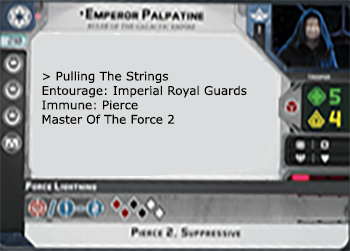
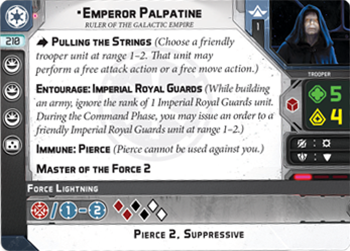
Updating Palpatine

diff --git a/src/app/units/units.component.ts b/src/app/units/units.component.ts
@@ -24,7 +24,7 @@ export class UnitsComponent implements OnInit {
       ['Force', 'Force', 'Force', 'Command'],
       ['', '', '', ''],
       'assets\\images\\Cards\\Emperor Palpatine.png',
-      false
+      true
     ),
     new Unit(
       'Boba Fett',
@@ -183,24 +183,29 @@ export class UnitsComponent implements OnInit {
   commandCards = [
     new CommandCard('Ambush', 1, '', 'assets\\images\\Cards\\Command Cards\\Ambush.png', true),
     new CommandCard('Son of Skywalker', 1, 'Luke Skywalker', 'assets\\images\\Cards\\Command Cards\\Son of Skywalker.png', false),
-    // tslint:disable-next-line:max-line-length
-    new CommandCard('Coordinated Bombardment', 1, 'Leia Organa', 'assets\\images\\Cards\\Command Cards\\Coordinated Bombardment.png', false),
+    new CommandCard('Coordinated Bombardment', 1, 'Leia Organa',
+      'assets\\images\\Cards\\Command Cards\\Coordinated Bombardment.png', false),
     new CommandCard('Implacable', 1, 'Darth Vader', 'assets\\images\\Cards\\Command Cards\\Implacable.png', false),
     new CommandCard('Maximum Firepower', 1, 'General Veers', 'assets\\images\\Cards\\Command Cards\\Maximum Firepower.png', false),
     new CommandCard('Sorry About the Mess', 1, 'Han Solo', 'assets\\images\\Cards\\Command Cards\\Sorry About the Mess.png', false),
     new CommandCard('Whipcord Launcher', 1, 'Boba Fett', 'assets\\images\\Cards\\Command Cards\\Whipcord Launcher.png', false),
+    new CommandCard('And Now...You Will Die', 1, 'Emperor Palpatine',
+      'assets\\images\\Cards\\Command Cards\\And Now You Will Die.png', false),
     new CommandCard('Push', 2, '', 'assets\\images\\Cards\\Command Cards\\Push.png', true),
     new CommandCard('My Ally Is the Force', 2, 'Luke Skywalker', 'assets\\images\\Cards\\Command Cards\\My Ally Is the Force.png', false),
     new CommandCard('No Time for Sorrows', 2, 'Leia Organa', 'assets\\images\\Cards\\Command Cards\\No Time for Sorrows.png', false),
-    // tslint:disable-next-line:max-line-length
-    new CommandCard('New Ways to Motivate Them', 2, 'Darth Vader', 'assets\\images\\Cards\\Command Cards\\New Ways to Motivate Them.png', false),
-    new CommandCard('Evasive Maneuvers', 2, 'General Veers', 'assets\\images\\Cards\\Command Cards\\Evasive Maneuvers.png', false),
+    new CommandCard('New Ways to Motivate Them', 2, 'Darth Vader',
+      'assets\\images\\Cards\\Command Cards\\New Ways to Motivate Them.png', false),
+    new CommandCard('Evasive Maneuvers', 2, 'General Veers',
+      'assets\\images\\Cards\\Command Cards\\Evasive Maneuvers.png', false),
     new CommandCard('Reckless Diversion', 2, 'Han Solo', 'assets\\images\\Cards\\Command Cards\\Reckless Diversion.png', false),
     new CommandCard('ZX Flame Projector', 2, 'Boba Fett', 'assets\\images\\Cards\\Command Cards\\ZX Flame Projector.png', false),
+    new CommandCard('Give in to Your Anger', 2, 'Emperor Palpatine',
+      'assets\\images\\Cards\\Command Cards\\Give in to Your Anger.png', false),
     new CommandCard('Assault', 3, '', 'assets\\images\\Cards\\Command Cards\\Assault.png', true),
     new CommandCard('Return of the Jedi', 3, 'Luke Skywalker', 'assets\\images\\Cards\\Command Cards\\Return of the Jedi.png', false),
-    // tslint:disable-next-line:max-line-length
-    new CommandCard('Somebody Has to Save Our Skins', 3, 'Leia Organa', 'assets\\images\\Cards\\Command Cards\\Somebody Has to Save Our Skins.png', false),
+    new CommandCard('Somebody Has to Save Our Skins', 3, 'Leia Organa',
+      'assets\\images\\Cards\\Command Cards\\Somebody Has to Save Our Skins.png', false),
     new CommandCard('Master of Evil', 3, 'Darth Vader', 'assets\\images\\Cards\\Command Cards\\Master of Evil.png', false),
     new CommandCard('Imperial Discipline', 3, 'General Veers', 'assets\\images\\Cards\\Command Cards\\Imperial Discipline.png', false),
     new CommandCard('Change of Plans', 3, 'Han Solo', 'assets\\images\\Cards\\Command Cards\\Change of Plans.png', false),

diff --git a/src/app/shared/upgrades.service.ts b/src/app/shared/upgrades.service.ts
@@ -5,11 +5,12 @@ export class UpgradeService {
     allUpgrades = [
         // Force
         new Upgrade('Force Choke', 5, 'Force', '', 'Imperial', 'assets\\images\\Cards\\Upgrades\\Force Choke.png'),
+        new Upgrade('Jedi Mind Trick', 5, 'Force', '', 'Rebel', 'assets\\images\\Cards\\Upgrades\\Jedi Mind Trick.png'),
+        new Upgrade('Anger', 5, 'Force', '', 'Imperial', 'assets\\images\\Cards\\Upgrades\\Anger.png'),
         new Upgrade('Saber Throw', 10, 'Force', '', '', 'assets\\images\\Cards\\Upgrades\\Saber Throw.png'),
         new Upgrade('Force Push', 10, 'Force', '', '', 'assets\\images\\Cards\\Upgrades\\Force Push.png'),
-        new Upgrade('Force Reflexes', 15, 'Force', '', '', 'assets\\images\\Cards\\Upgrades\\Force Reflexes.png'),
         new Upgrade('Battle Meditation', 10, 'Force', '', '', 'assets\\images\\Cards\\Upgrades\\Battle Meditation.png'),
-        new Upgrade('Jedi Mind Trick', 5, 'Force', '', 'Rebel', 'assets\\images\\Cards\\Upgrades\\Jedi Mind Trick.png'),
+        new Upgrade('Force Reflexes', 15, 'Force', '', '', 'assets\\images\\Cards\\Upgrades\\Force Reflexes.png'),
         // Personnel
         new Upgrade('Stormtrooper', 11, 'Personnel', 'Stormtroopers', '', 'assets\\images\\Cards\\Upgrades\\Stormtrooper.png'),
         new Upgrade('Snowtrooper', 12, 'Personnel', 'Snowtroopers', '', 'assets\\images\\Cards\\Upgrades\\Snowtrooper.png'),

diff --git a/src/app/shared/full-list.service.ts b/src/app/shared/full-list.service.ts
@@ -8,7 +8,7 @@ import { Upgrade } from './upgrade.model';
   providedIn: 'root'
 })
 export class FullListService {
-  list = new List('', [], 0, [], 800);
+  list = new List('', '', [], 0, [], 800);
   listUpdated = new EventEmitter<any>();
   unitAmounts = {
     commander: {amount: 0, minimum: 1, maximum: 2, color: 'red'},
@@ -73,6 +73,7 @@ export class FullListService {
   resetList() {
     this.list = {
       name: '',
+      faction: '',
       units: [],
       points: 0,
       commandCards: [],

diff --git a/src/app/shared/list.model.ts b/src/app/shared/list.model.ts
@@ -4,6 +4,7 @@ import { CommandCard } from './command.model';
 export class List {
     constructor(
         public name: String,
+        public faction: String,
         public units: Unit[],
         public points: number,
         public commandCards: CommandCard[],
